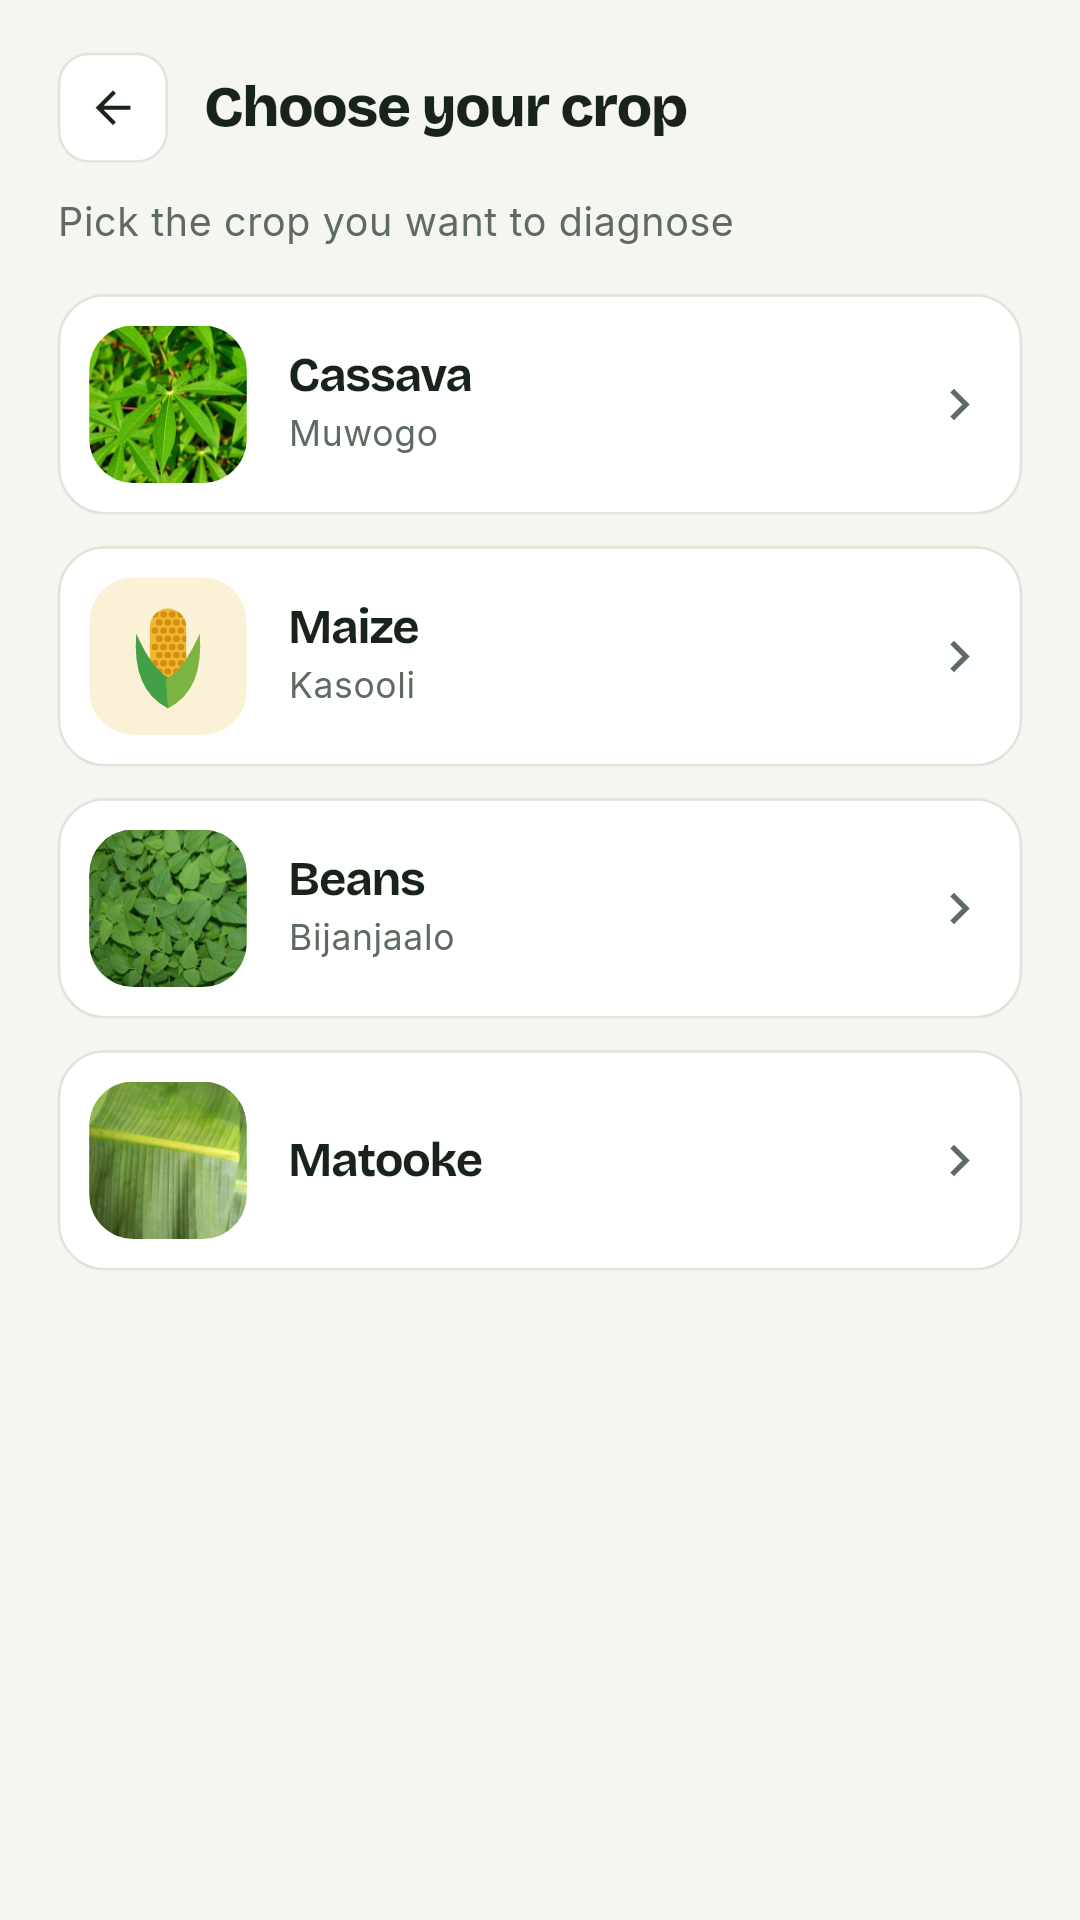
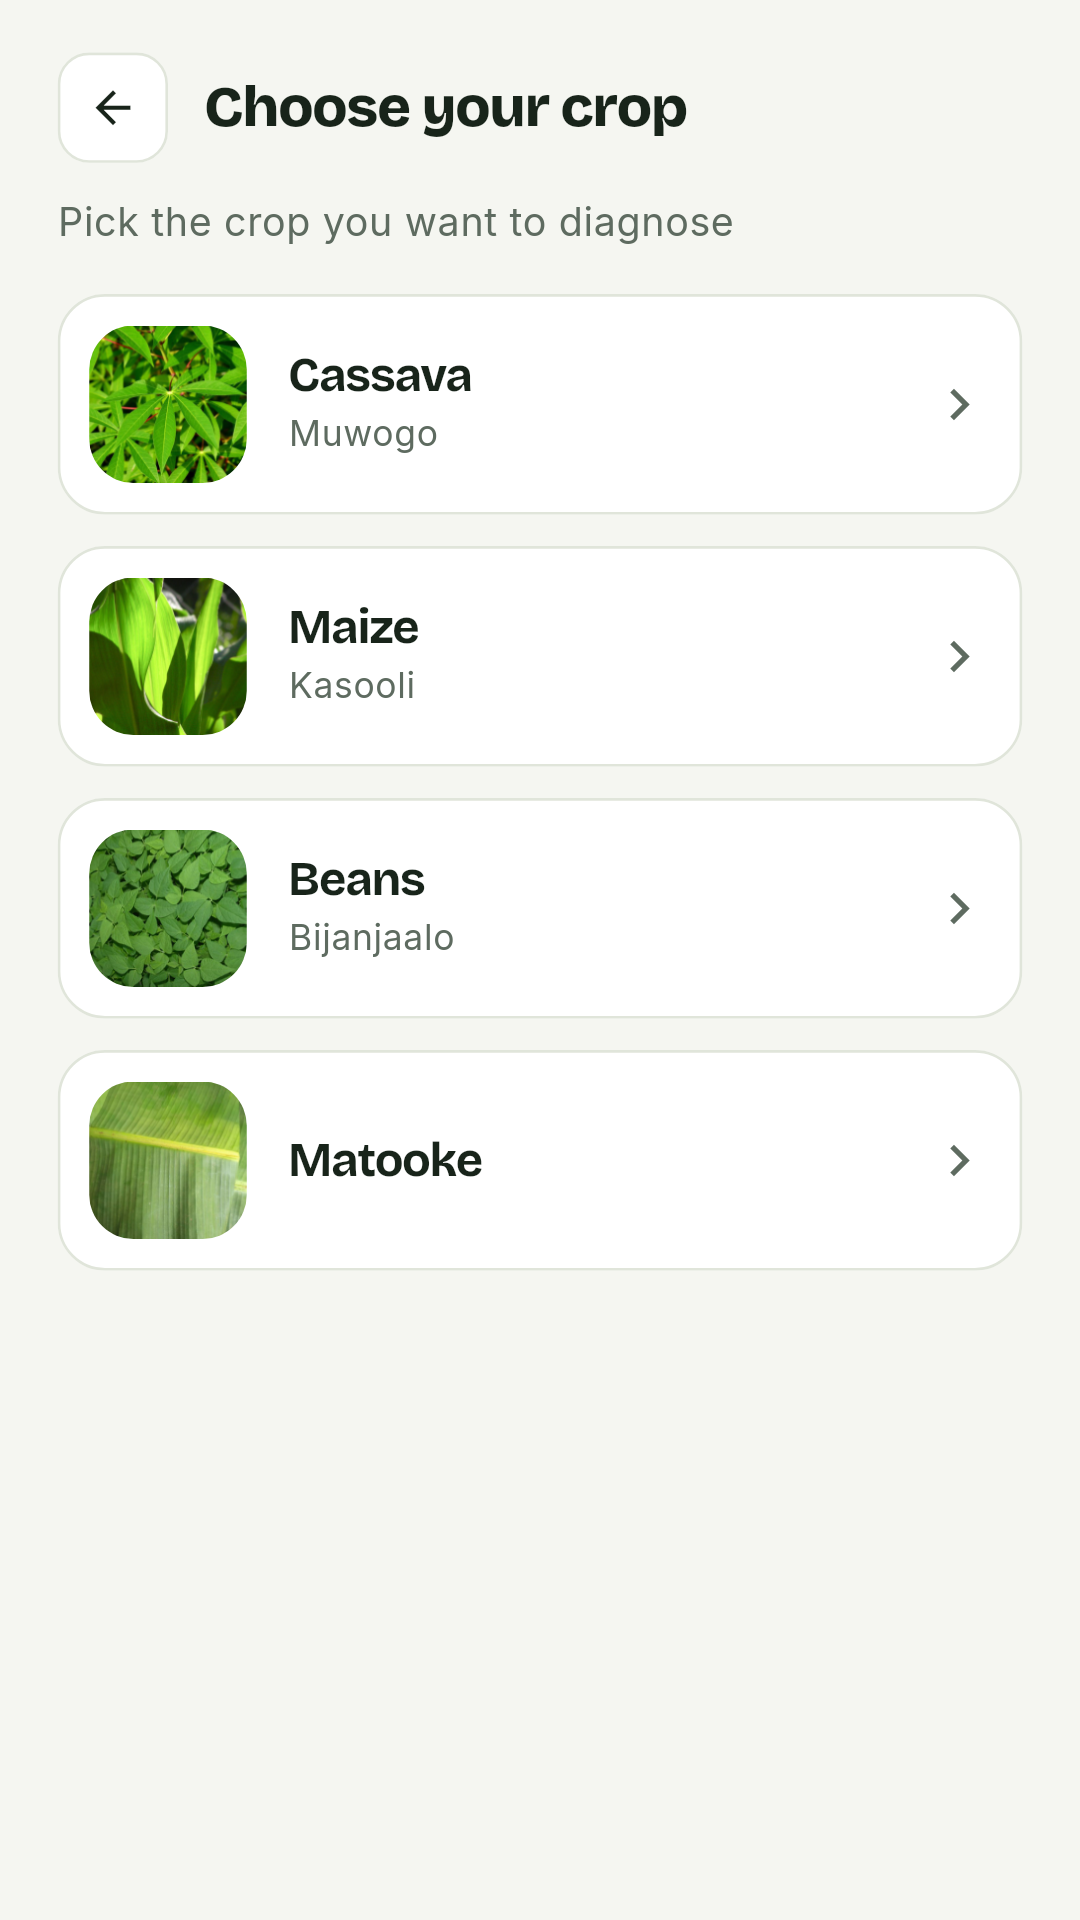
Real photo for maize
assets/crops/maize.jpg: 'corn leaves' by normanack (CC BY 2.0, Flickr),
cropped to a square. Credit in assets/crops/CREDITS.txt and on the
website; store screenshots refreshed. All four crops now have photos.

Claude-Session: https://claude.ai/code/session_01EebXmDX3njhry4Jv6PGpDw

Changed region(s): [[0.0611, 0.2812, 0.2444, 0.4062]]

diff --git a/docs/index.html b/docs/index.html
@@ -26,6 +26,12 @@
 </ul>
 </div>
 
+<p class="dim">Maize photo: &ldquo;corn leaves&rdquo; by normanack,
+<a href="https://www.flickr.com/photos/29278394@N00/2637276624">Flickr</a>,
+<a href="https://creativecommons.org/licenses/by/2.0/">CC BY 2.0</a>.
+Disease models trained on open datasets listed in
+<a href="https://github.com/solexb166/myfarm/blob/main/ml/MODELS.md">MODELS.md</a>.</p>
+
 <p><a href="privacy.html">Privacy policy</a> &middot;
 <a href="delete-account.html">Delete your account</a></p>
 
